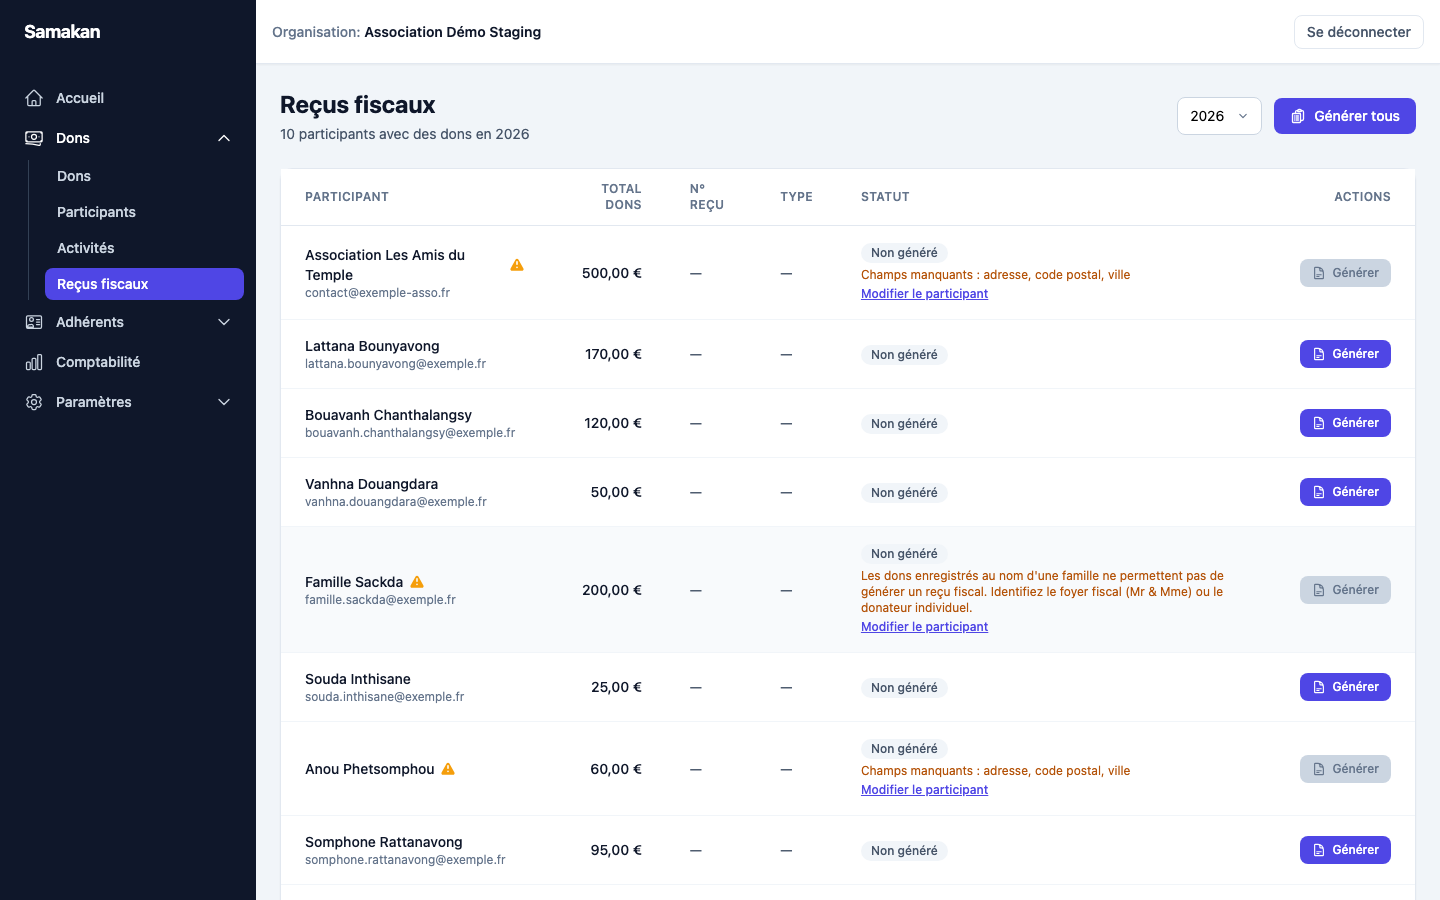
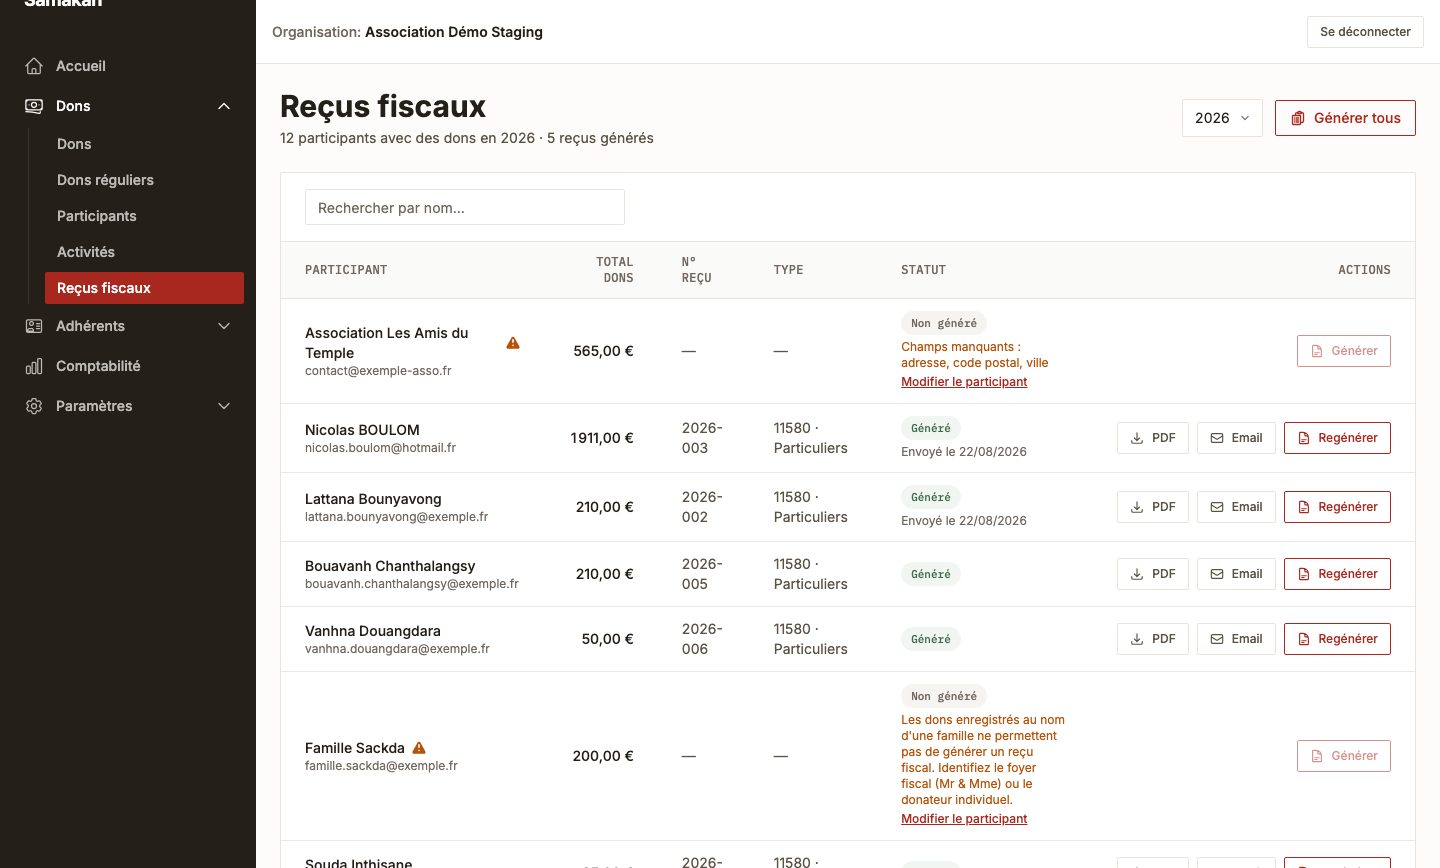
feat: rafraîchir les captures DecouvrirPage + Dons réguliers, Modèles de reçus
Les 15 captures existantes montraient encore l'ancienne UI indigo/slate
(pré-rollout shadcn) — toutes reprises sur l'UI actuelle (org "Association
Démo Staging"), bannière "Environnement de test" recadrée hors champ.

2 nouvelles fonctionnalités ajoutées à la page : "Automatiser les dons
récurrents" (section Dons) et "Des reçus à l'image de votre association"
(section Personnalisation), avec leurs propres captures.

2 demandes d'adhésion de test (résidus QA détection de bounces, PR #148)
supprimées de l'organisation de démo avant capture — confirmé avec
l'utilisateur, plus utiles maintenant que la fonctionnalité est validée.

diff --git a/src/pages/DecouvrirPage.tsx b/src/pages/DecouvrirPage.tsx
@@ -13,6 +13,8 @@ import imgBenevoleDon from '../assets/decouvrir/15-benevole-don.png'
 import imgBenevoleVerification from '../assets/decouvrir/16-benevole-verification.png'
 import imgParametresOrganisation from '../assets/decouvrir/08-parametres-organisation.png'
 import imgFormulaireEditor from '../assets/decouvrir/12-formulaire-adhesion-editor.png'
+import imgDonsReguliers from '../assets/decouvrir/17-dons-reguliers.png'
+import imgModelesRecus from '../assets/decouvrir/18-modeles-recus.png'
 import { Button } from '../components/ui/button'
 
 const SECTIONS = [
@@ -164,13 +166,19 @@ export default function DecouvrirPage() {
               imageAlt="Liste des dons avec indicateurs"
             />
             <Feature
+              title="Automatiser les dons récurrents"
+              description="Enregistrez un engagement de prélèvement mensuel une seule fois — chaque mois, le don correspondant est proposé à la confirmation, sans ressaisie, jusqu'à l'arrêt de l'engagement."
+              image={imgDonsReguliers}
+              imageAlt="Page des dons réguliers"
+            />
+            <Feature
+              reverse
               title="Reçus fiscaux Cerfa en un clic"
               description="Génération automatique des reçus fiscaux (Cerfa 11580/16216) à partir des dons de l'année, avec détection des dossiers incomplets avant génération."
               image={imgRecusFiscaux}
               imageAlt="Liste des reçus fiscaux à générer"
             />
             <Feature
-              reverse
               title="Un tableau de bord comptable clair"
               description="Évolution des dons mois par mois, répartition par activité et par mode de paiement — de quoi préparer sereinement une réunion de bureau ou un point avec le trésorier."
               image={imgComptabilite}
@@ -274,6 +282,12 @@ export default function DecouvrirPage() {
               description="En-tête et pied de page du formulaire d'adhésion personnalisables en HTML/CSS, avec aperçu en direct — le cœur du formulaire reste garanti conforme."
               image={imgFormulaireEditor}
               imageAlt="Éditeur d'en-tête et pied de page du formulaire d'adhésion"
+            />
+            <Feature
+              title="Des reçus à l'image de votre association"
+              description="Personnalisez le contenu HTML des reçus fiscaux 11580 et 16216, avec aperçu en direct à partir de données d'exemple — la conformité Cerfa reste garantie."
+              image={imgModelesRecus}
+              imageAlt="Aperçu d'un modèle de reçu fiscal personnalisé"
             />
           </section>
 
